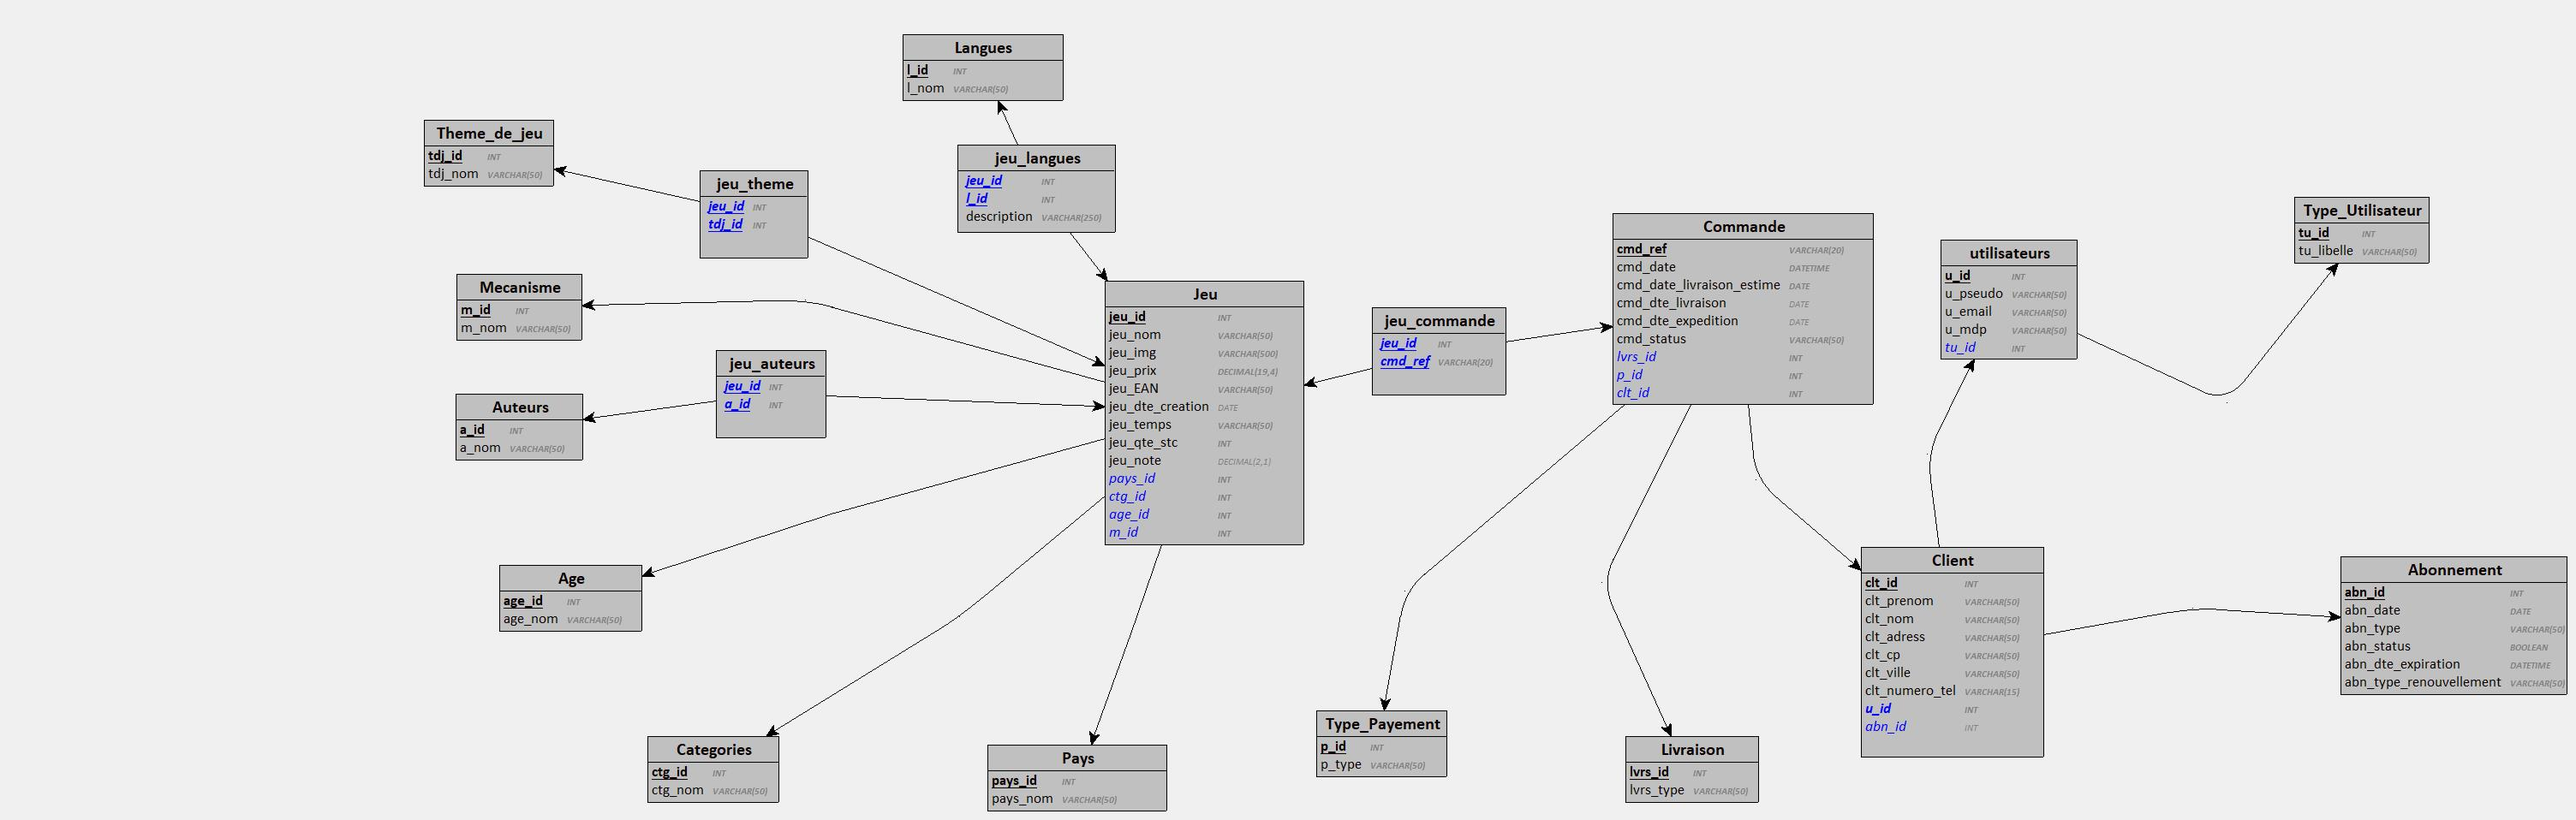
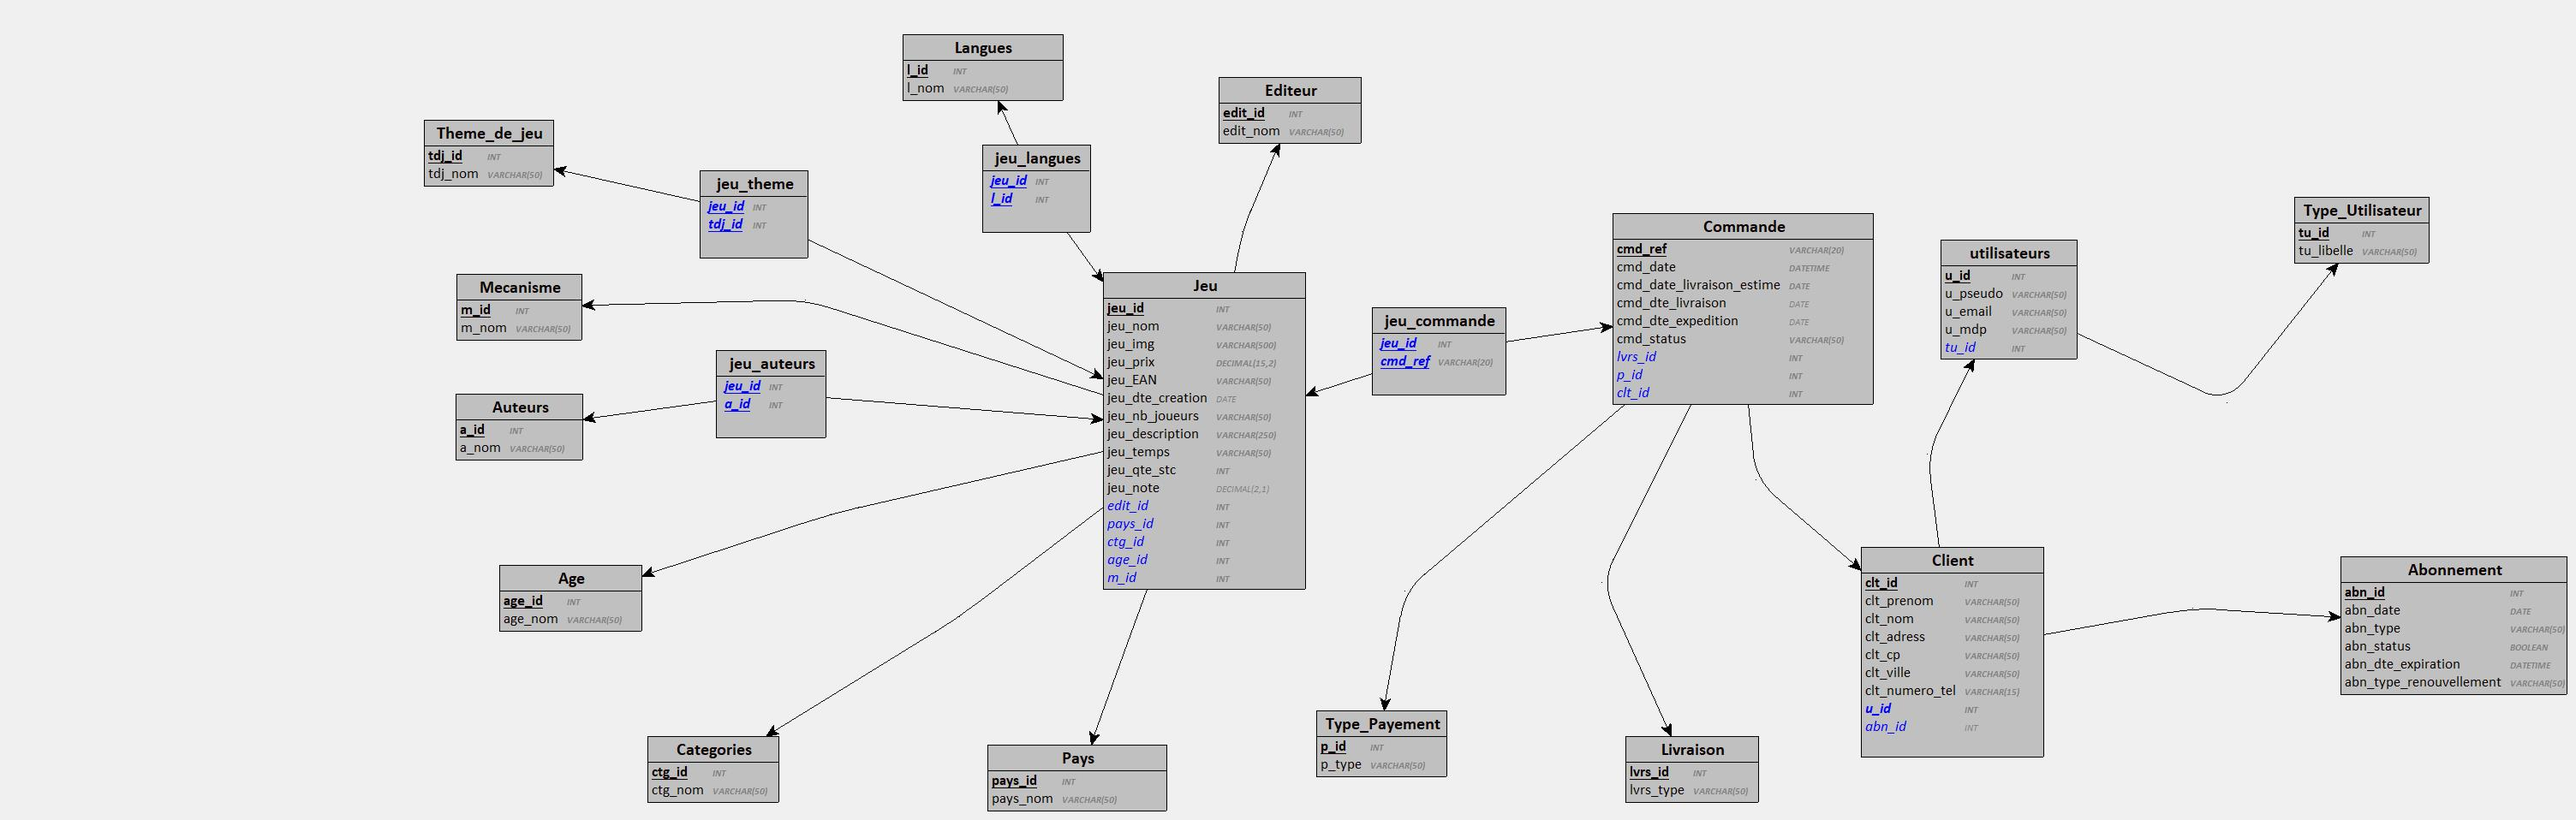
Mis à jour de la bdd. Ajout d'élements dans la table jeu

Changed region(s): [[0.4062, 0.333, 0.5312, 0.7265], [0.3438, 0.1816, 0.4375, 0.3027], [0.4688, 0.0908, 0.5312, 0.1816]]

diff --git a/style/style.css b/style/style.css
@@ -339,3 +339,8 @@ header {
   max-height: 50%;
   object-fit: cover;
 }
+
+#classLeft {
+  display: flex;
+  flex-direction: row;
+}

diff --git a/games.php b/games.php
@@ -56,8 +56,8 @@
         INNER JOIN theme_de_jeu tdj ON jt.tdj_id = tdj.tdj_id
         INNER JOIN jeu_auteurs ja ON j.jeu_id = ja.jeu_id
         INNER JOIN auteurs a ON ja.a_id = a.a_id
-        -- INNER JOIN jeu_langues jl ON j.jeu_id = jl.jeu_id
-        -- INNER JOIN langues l ON jl.l_id = l.l_id
+        INNER JOIN jeu_langues jl ON j.jeu_id = jl.jeu_id
+        INNER JOIN langues l ON jl.l_id = l.l_id
         ";
 
         // Exécution de la requête

diff --git a/index.php b/index.php
@@ -54,7 +54,7 @@
         ?>
         <section id="mSectionArticle">
             <article id="mArticleLeft">
-                <div class="row">
+                <div class="row" id="classLeft">
                     <?php if (count($jeux) > 0): ?>
                         <?php foreach ($jeux as $jeu): ?>
                             <div class="col-md4 mb-4">
